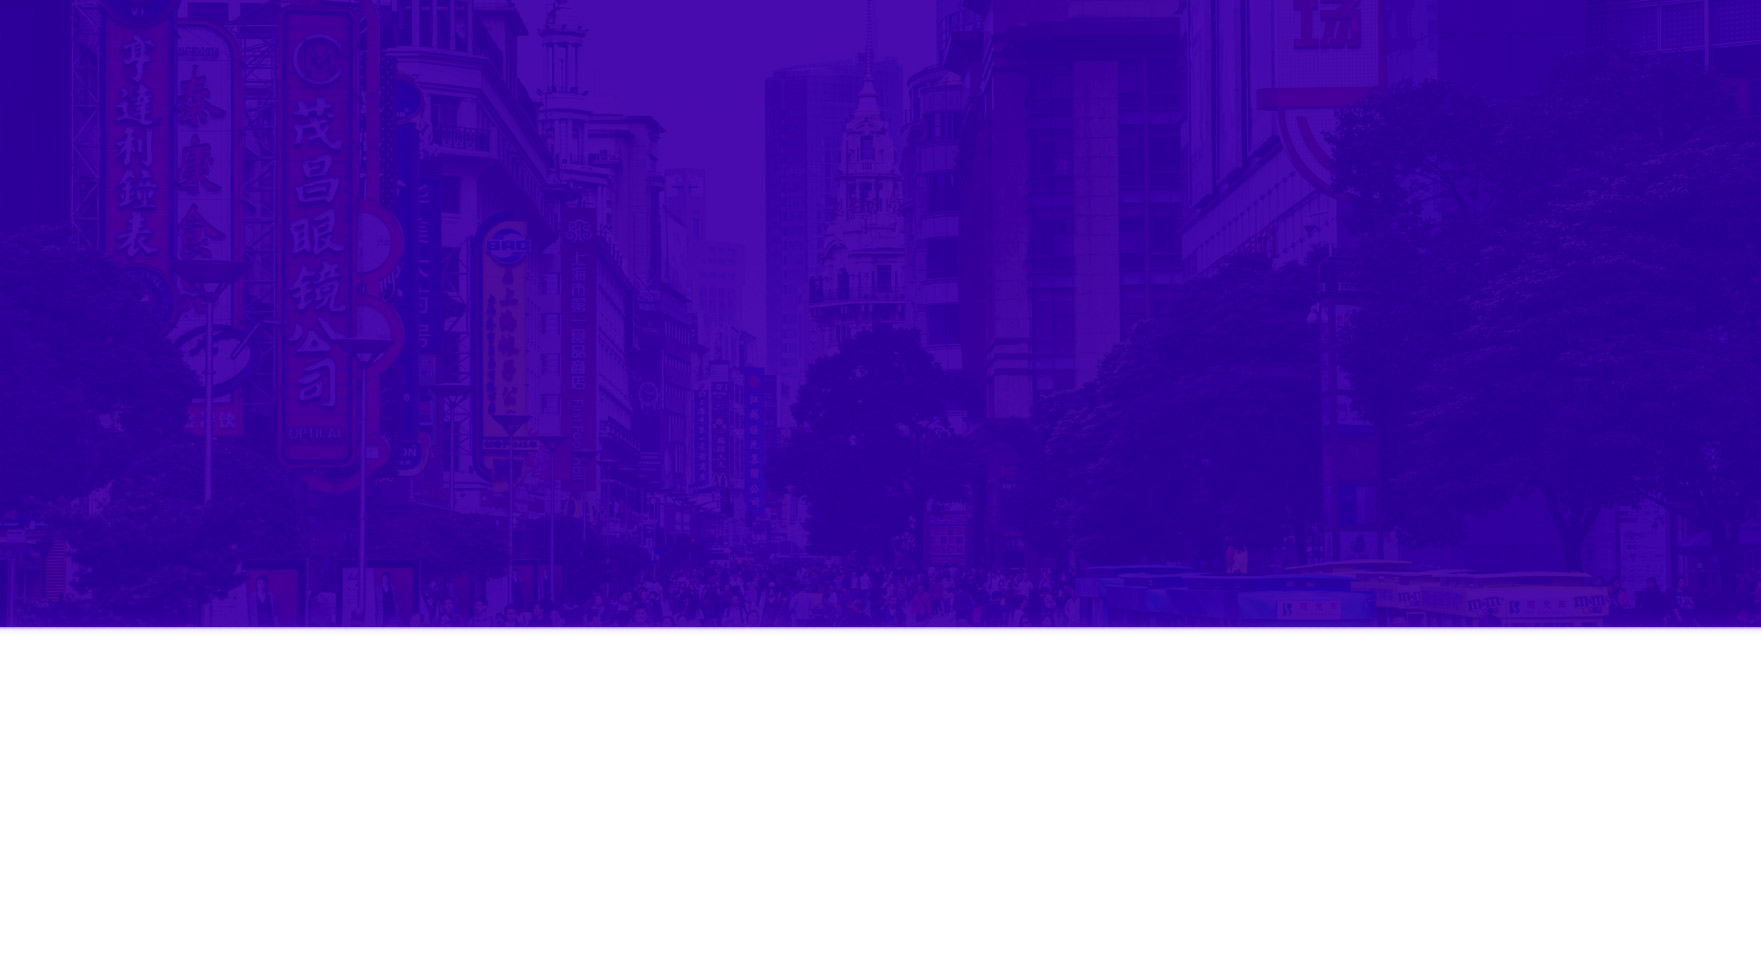
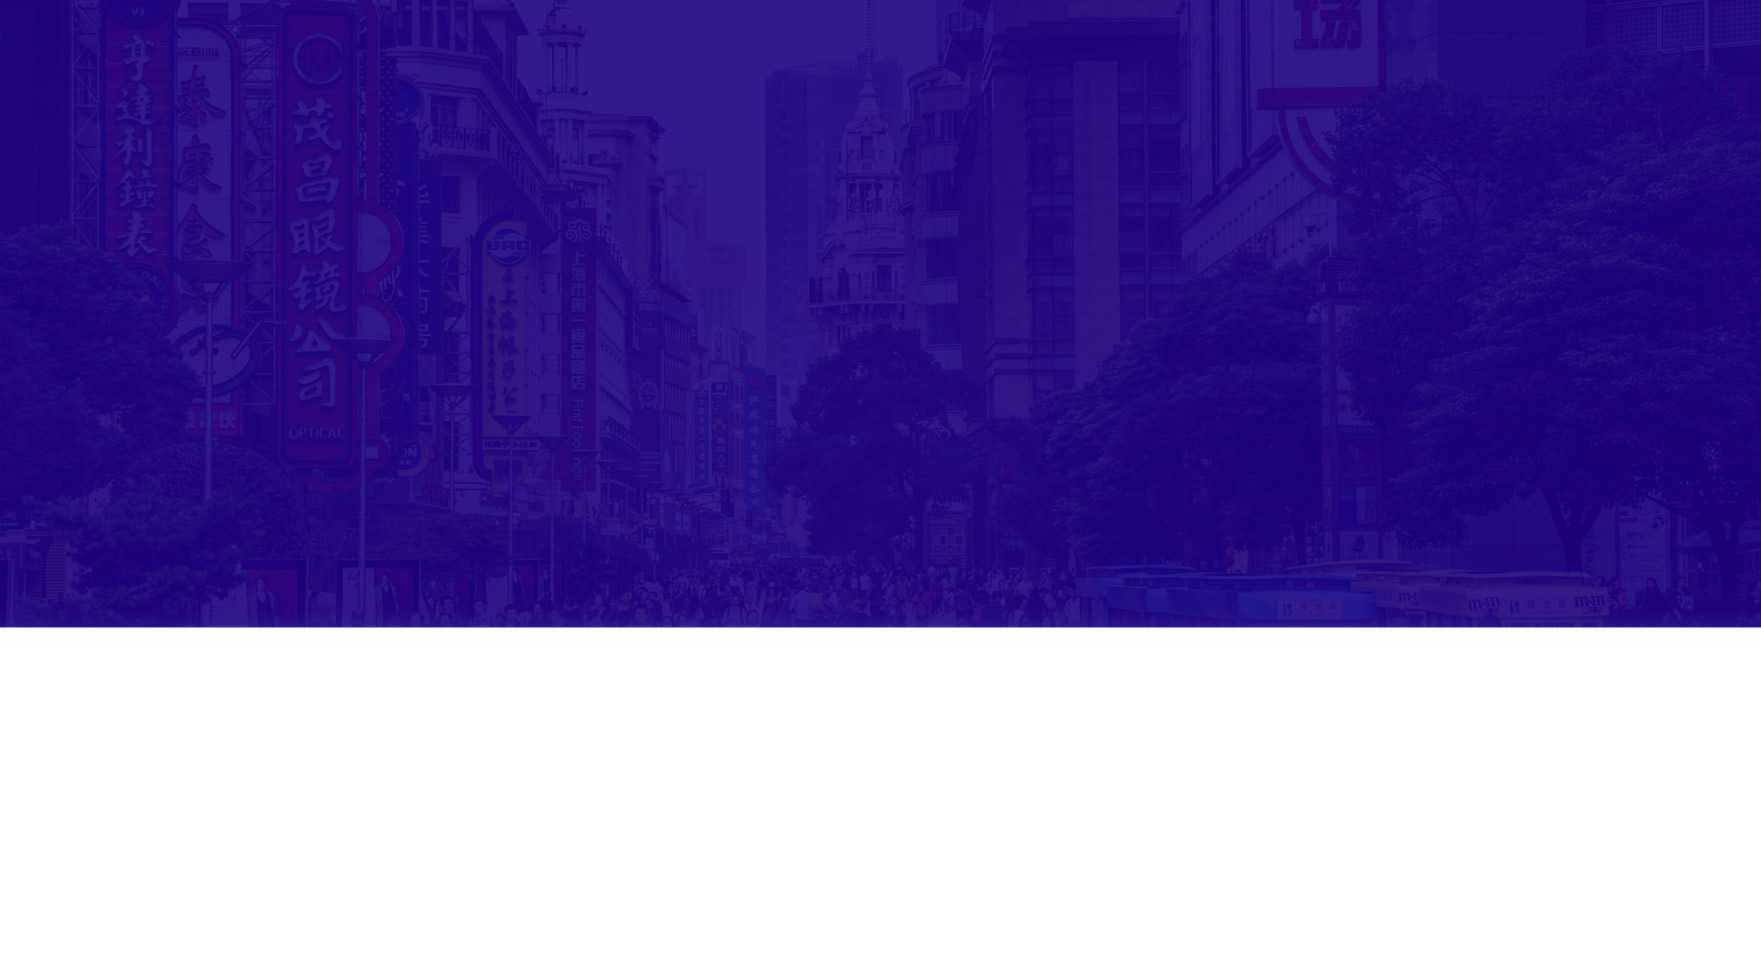
aligned nav item anchor links w/ correct slides

diff --git a/app/assets/stylesheets/cims.scss b/app/assets/stylesheets/cims.scss
@@ -2497,6 +2497,13 @@ CV / News
   -webkit-flex-direction: column;
   flex-direction: column;
 }
+.flexblock.activity.bg-gradient-h{
+  border-radius:2px;
+  color:white;
+  li:first-child{
+    border-top:none
+  }
+}
 
 .activity li {
   position: relative;
@@ -2561,7 +2568,7 @@ CV / News
 }
 @media (min-width: 768px) {
   .activity.two-column .year {
-    width: 45%;
+    width: 38%;
   }
   .activity.two-column .title {
     width: 27%;
@@ -2569,7 +2576,7 @@ CV / News
     margin-left: 4%;
   }
   .activity.two-column .summary {
-    width: 50%;
+    width: 60%;
     padding-right: 10px
   }
   .activity.two-column .company {
@@ -2625,7 +2632,7 @@ CV / News
 
 
 .persons img{
-  max-width: 16rem
+  max-width: 12.8rem
 }
 
 .company img{
@@ -4466,7 +4473,7 @@ $mq-lg: 62em;
 
 .bg-patents{
   background: url(/assets/cim/patnts.jpg) no-repeat;
-  background-size: cover;
+  background-size: contain;
   color: white;
   background-position-y: -7rem;
 }

diff --git a/app/assets/javascripts/cim/webslides.js b/app/assets/javascripts/cim/webslides.js
@@ -357,7 +357,7 @@ var WebSlides = function () {
         _ref$minWheelDelta = _ref.minWheelDelta,
         minWheelDelta = _ref$minWheelDelta === undefined ? 2980 : _ref$minWheelDelta,
         _ref$scrollWait = _ref.scrollWait,
-        scrollWait = _ref$scrollWait === undefined ? 1850 : _ref$scrollWait,
+        scrollWait = _ref$scrollWait === undefined ? 1250 : _ref$scrollWait,
         _ref$slideOffset = _ref.slideOffset,
         slideOffset = _ref$slideOffset === undefined ? 50 : _ref$slideOffset;
 

diff --git a/app/assets/stylesheets/cims_colors.scss b/app/assets/stylesheets/cims_colors.scss
@@ -196,7 +196,7 @@ Base
   /*Horizontal Gradient*/
 
   .bg-gradient-h {
-    background: linear-gradient(134deg,#292475 0,#402069 100%);
+    background: linear-gradient(135deg, #3830a8 0, #3830a8 25%, #6117c1 100%)
   }
 
 
